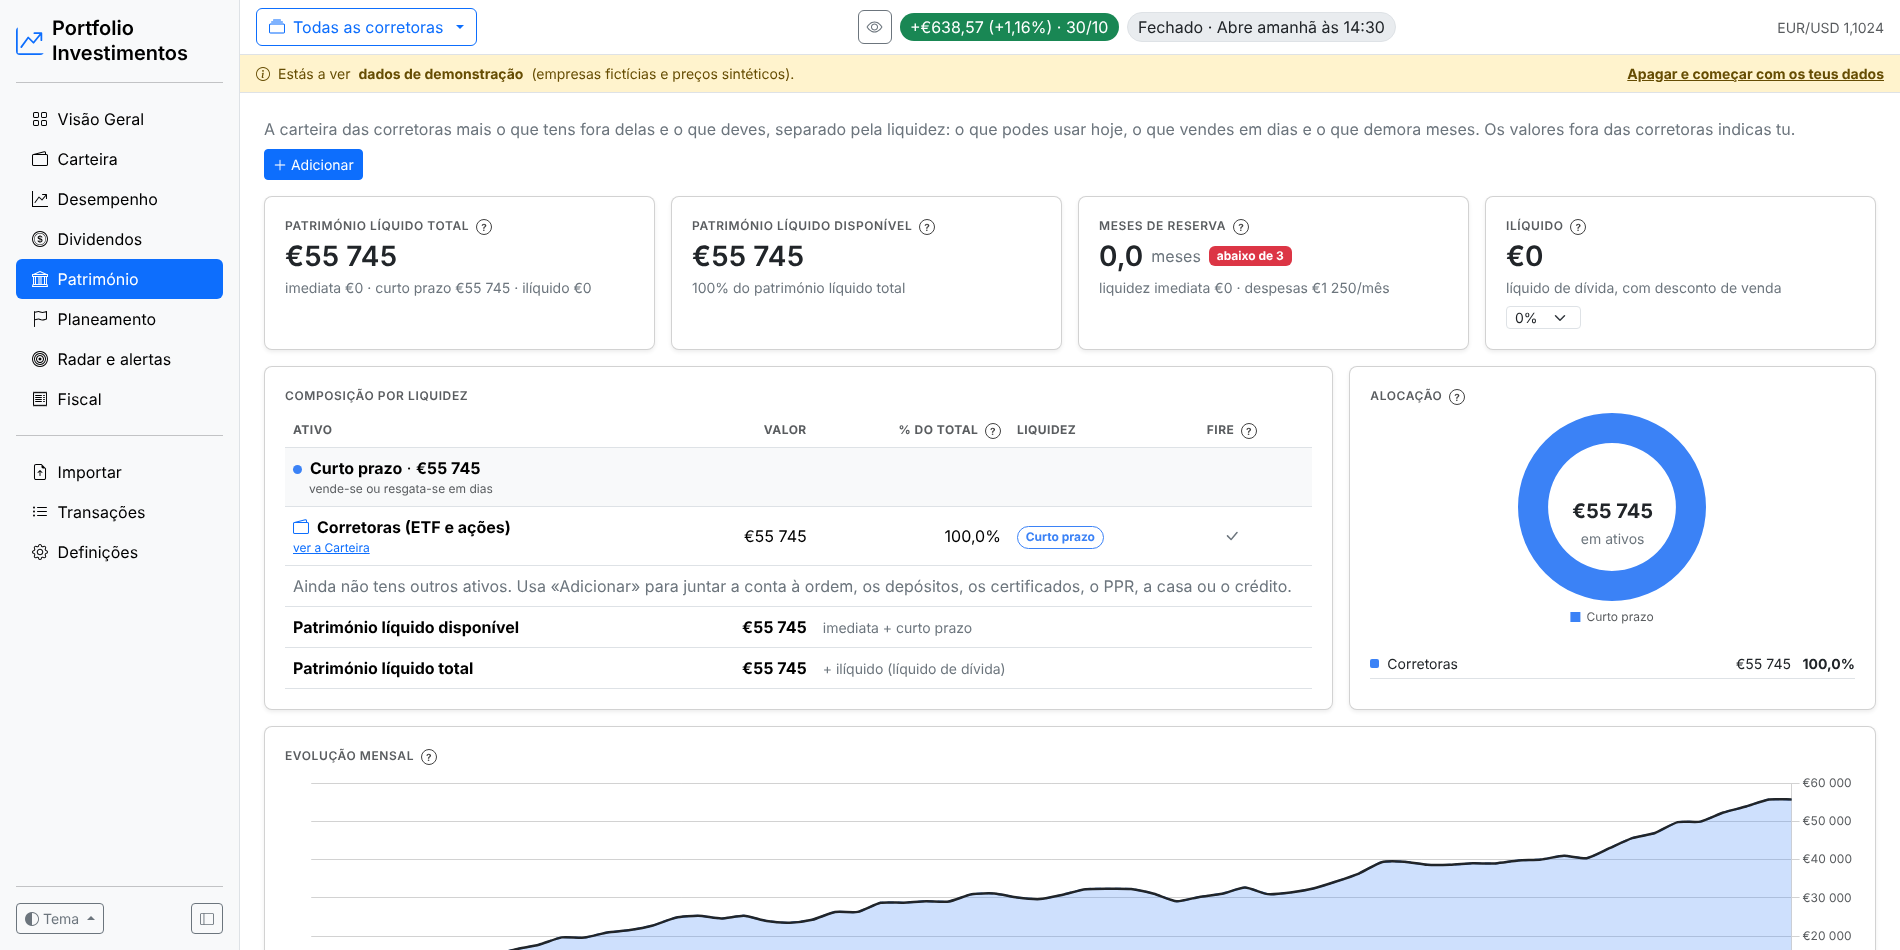
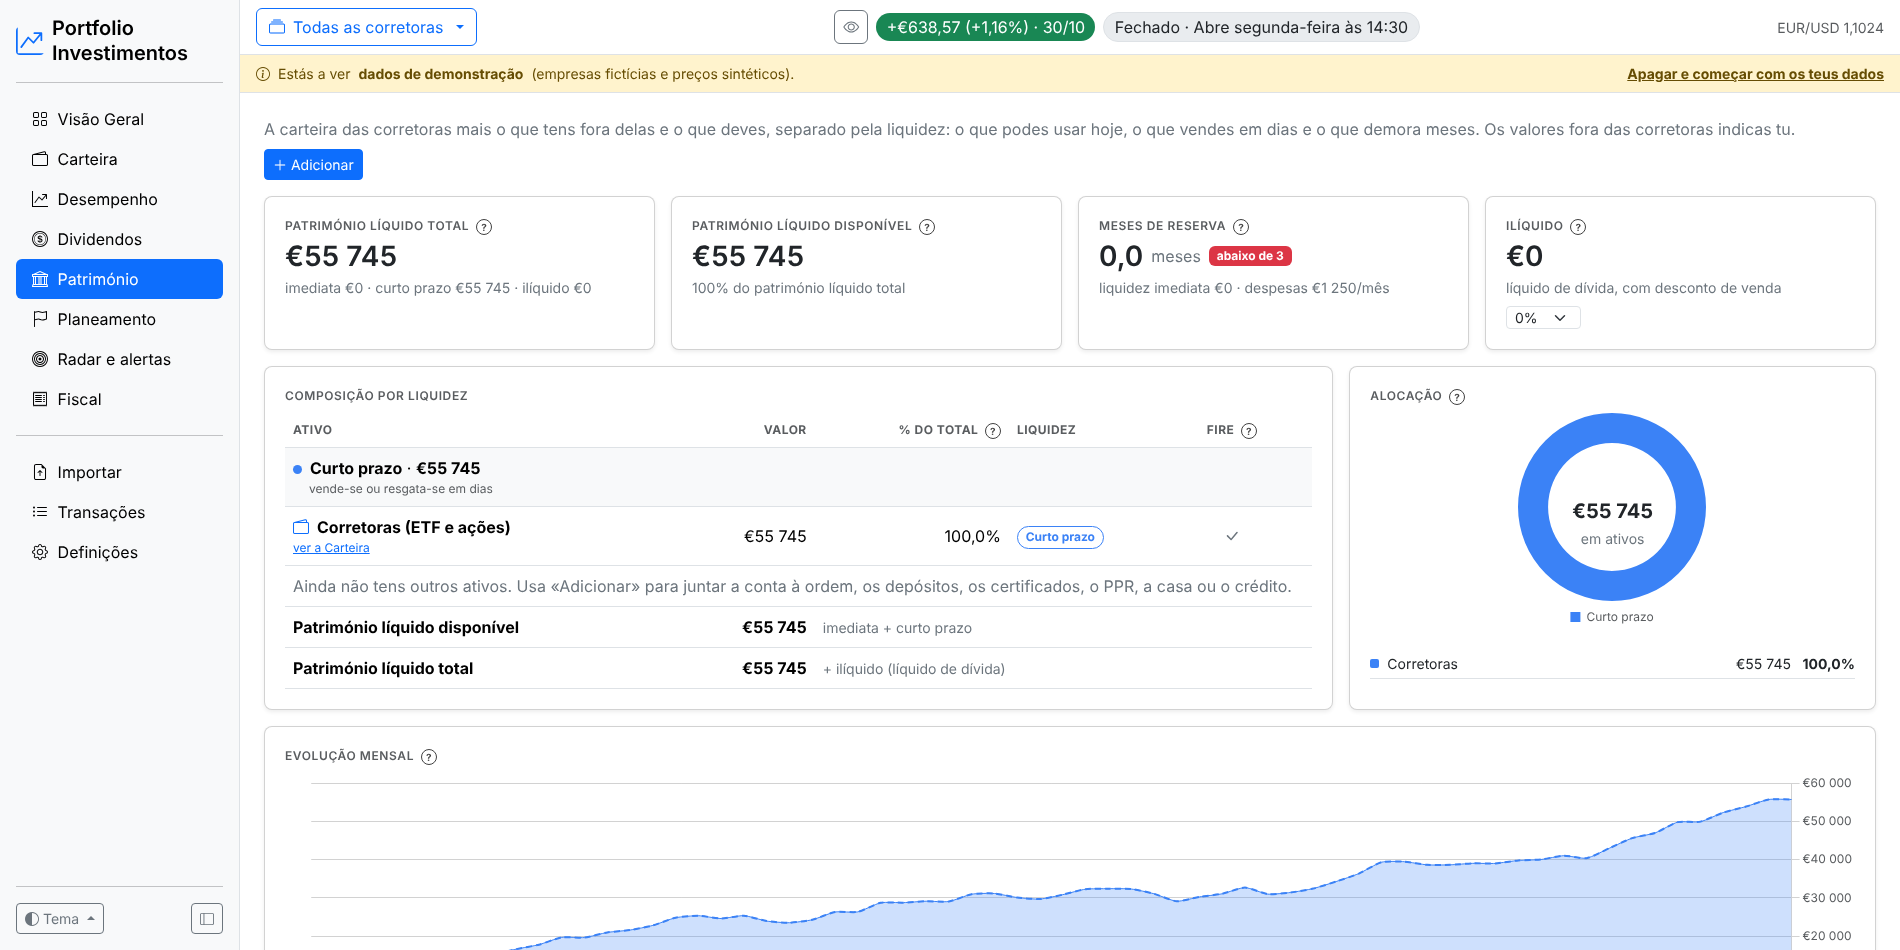
Património: evolução mensal mostra por omissão o disponível, a liquidez imediata e o curto prazo
No gráfico «Evolução mensal» do Património passam a estar selecionadas, por
omissão, apenas as séries Disponível, Imediata e Curto prazo. O Total, o
Ilíquido e as Dívidas continuam na legenda, mas por selecionar (hidden no
Chart.js): basta um clique na legenda para os mostrar.

Captura 21 (claro e escuro) e histórico de alterações atualizados.

Claude-Session: https://claude.ai/code/session_01AhMv5rzh4esVFWwNf2sje8

diff --git a/portfolio_investimentos/templates/pages/patrimonio.html b/portfolio_investimentos/templates/pages/patrimonio.html
@@ -275,13 +275,15 @@ document.addEventListener("DOMContentLoaded", () => {
     const labels = h.months.map((m) => { const [y, mo] = m.split("-"); return `${mo}/${y}`; });
     const area = (label, data, color, fill) => ({ label, data, borderColor: color, backgroundColor: color + "40", fill, borderWidth: 1, pointRadius: 0, stack: "s", tension: .2 });
     const datasets = [
-      { label: "Total", data: h.total, borderColor: pm.css("--pm-text"), borderWidth: 2.5, pointRadius: 0, tension: .2, fill: false, order: -2, stack: "total" },
+      // por omissão vê-se o disponível e as camadas imediata e curto prazo; o total, o ilíquido e as dívidas
+      // ficam na legenda, por selecionar (um clique mostra-os)
+      { label: "Total", data: h.total, borderColor: pm.css("--pm-text"), borderWidth: 2.5, pointRadius: 0, tension: .2, fill: false, order: -2, stack: "total", hidden: true },
       { label: "Disponível", data: h.available, borderColor: "#3b82f6", borderDash: [6, 4], borderWidth: 2, pointRadius: 0, tension: .2, fill: false, order: -1, stack: "available" },
       area("Imediata", h.imediata, "#22c55e", "origin"),
       area("Curto prazo", h.curto, "#3b82f6", "-1"),
     ];
-    if (h.iliquido.some((v) => v)) datasets.push(area("Ilíquido", h.iliquido, "#f59e0b", "-1"));
-    if (h.debts.some((v) => v)) datasets.push(area("Dívidas", h.debts, "#ef4444", "origin"));
+    if (h.iliquido.some((v) => v)) datasets.push({ ...area("Ilíquido", h.iliquido, "#f59e0b", "-1"), hidden: true });
+    if (h.debts.some((v) => v)) datasets.push({ ...area("Dívidas", h.debts, "#ef4444", "origin"), hidden: true });
     pm.chart("nwChart", { type: "line", data: { labels, datasets },
       options: { maintainAspectRatio: false, interaction: { mode: "index", intersect: false },
         plugins: { legend: { position: "bottom" }, tooltip: { callbacks: { label: (it) => `${it.dataset.label}: ${pm.money(it.parsed.y, 0)}` } } },

diff --git a/CHANGELOG.md b/CHANGELOG.md
@@ -4,6 +4,9 @@ O que mudou em cada commit, do mais recente para o mais antigo (gerado a partir 
 
 ## 2026-11-07
 
+- **Património: na evolução mensal, por omissão só o disponível, a liquidez imediata e o curto prazo**  
+  O total, o ilíquido e as dívidas continuam na legenda do gráfico, mas por selecionar; um clique mostra-os.
+
 - **Património: % de ganho em «De onde veio o crescimento»**  
   Cada ano mostra o ganho sem a poupança (a variação do património menos o dinheiro novo posto nas corretoras), em € e em % do património no início do ano, e a % de cada parte sobre a sua própria base: a valorização do mercado pelo rendimento ponderado pelo tempo (TWR) das corretoras, como em Desempenho; os outros ativos financeiros e os imóveis sobre o valor no início do ano; a amortização sobre a dívida do início do ano. A poupança investida não tem % (não é rendimento). No ano corrente as % são até hoje, não anualizadas; no telemóvel a % aparece por baixo do valor.
 
